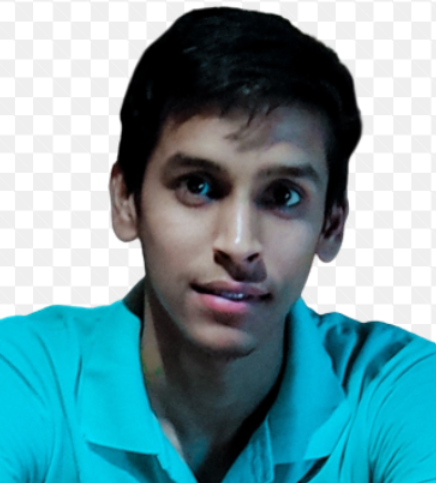
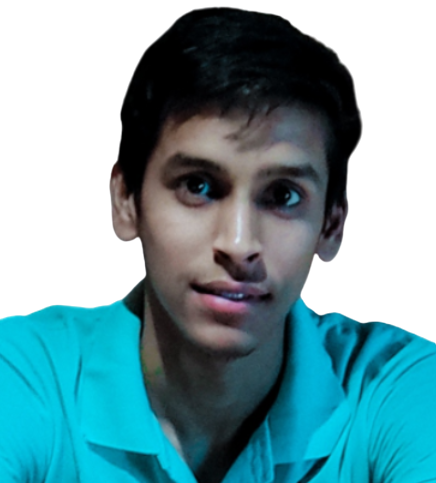
Credits page update

diff --git a/src/MyComponents/Credits.jsx b/src/MyComponents/Credits.jsx
@@ -1,6 +1,6 @@
 import React from "react";
 import "../MyComponents/style/Credits.css";
-import Surya from "../Images/surya_img.jpeg";
+import Surya from "../Images/Surya.png";
 import Kunal from "../Images/Kunal.png";
 import Utkarsh from "../Images/Utkarsh.png";
 import AdityaShivaji from "../Images/AdityaShivaji.png";
